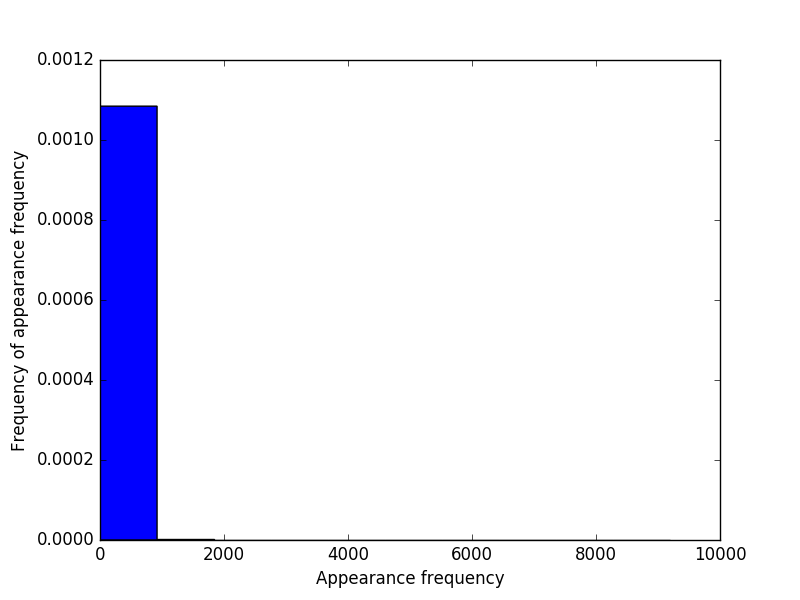
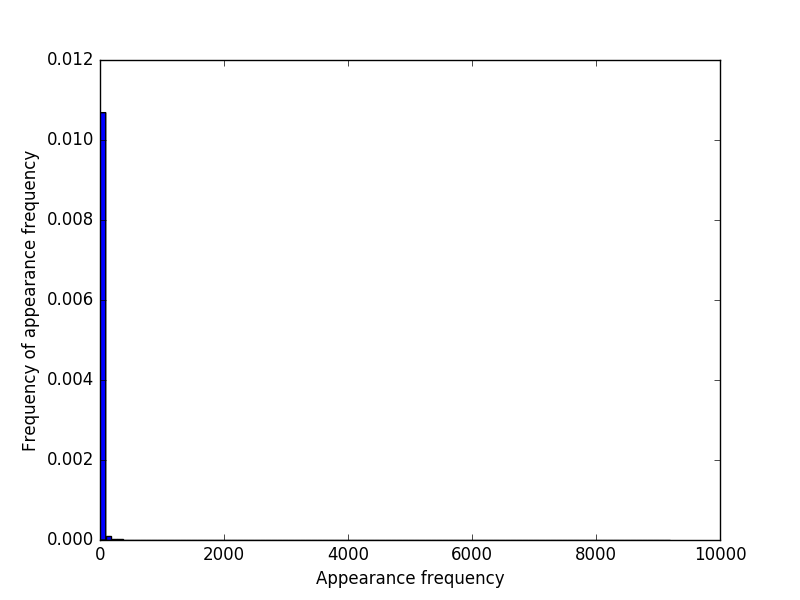
processing

Changed region(s): [[0.0, 0.15, 0.25, 0.93], [0.0312, 0.09, 0.125, 0.12]]

diff --git a/p38.py b/p38.py
@@ -50,7 +50,7 @@ def plot_Histgram(words_counter):
 	plt.ylabel("Frequency of appearance frequency")
 	# plot
 	# plt.hist(freq, bins = 50, normed = True)
-	plt.hist(freq, normed = True)
+	plt.hist(freq, bins = 100, normed = True)
 	# save as png
 	plt.savefig("Histgram_of_Appearance_Frequency.png")
 
